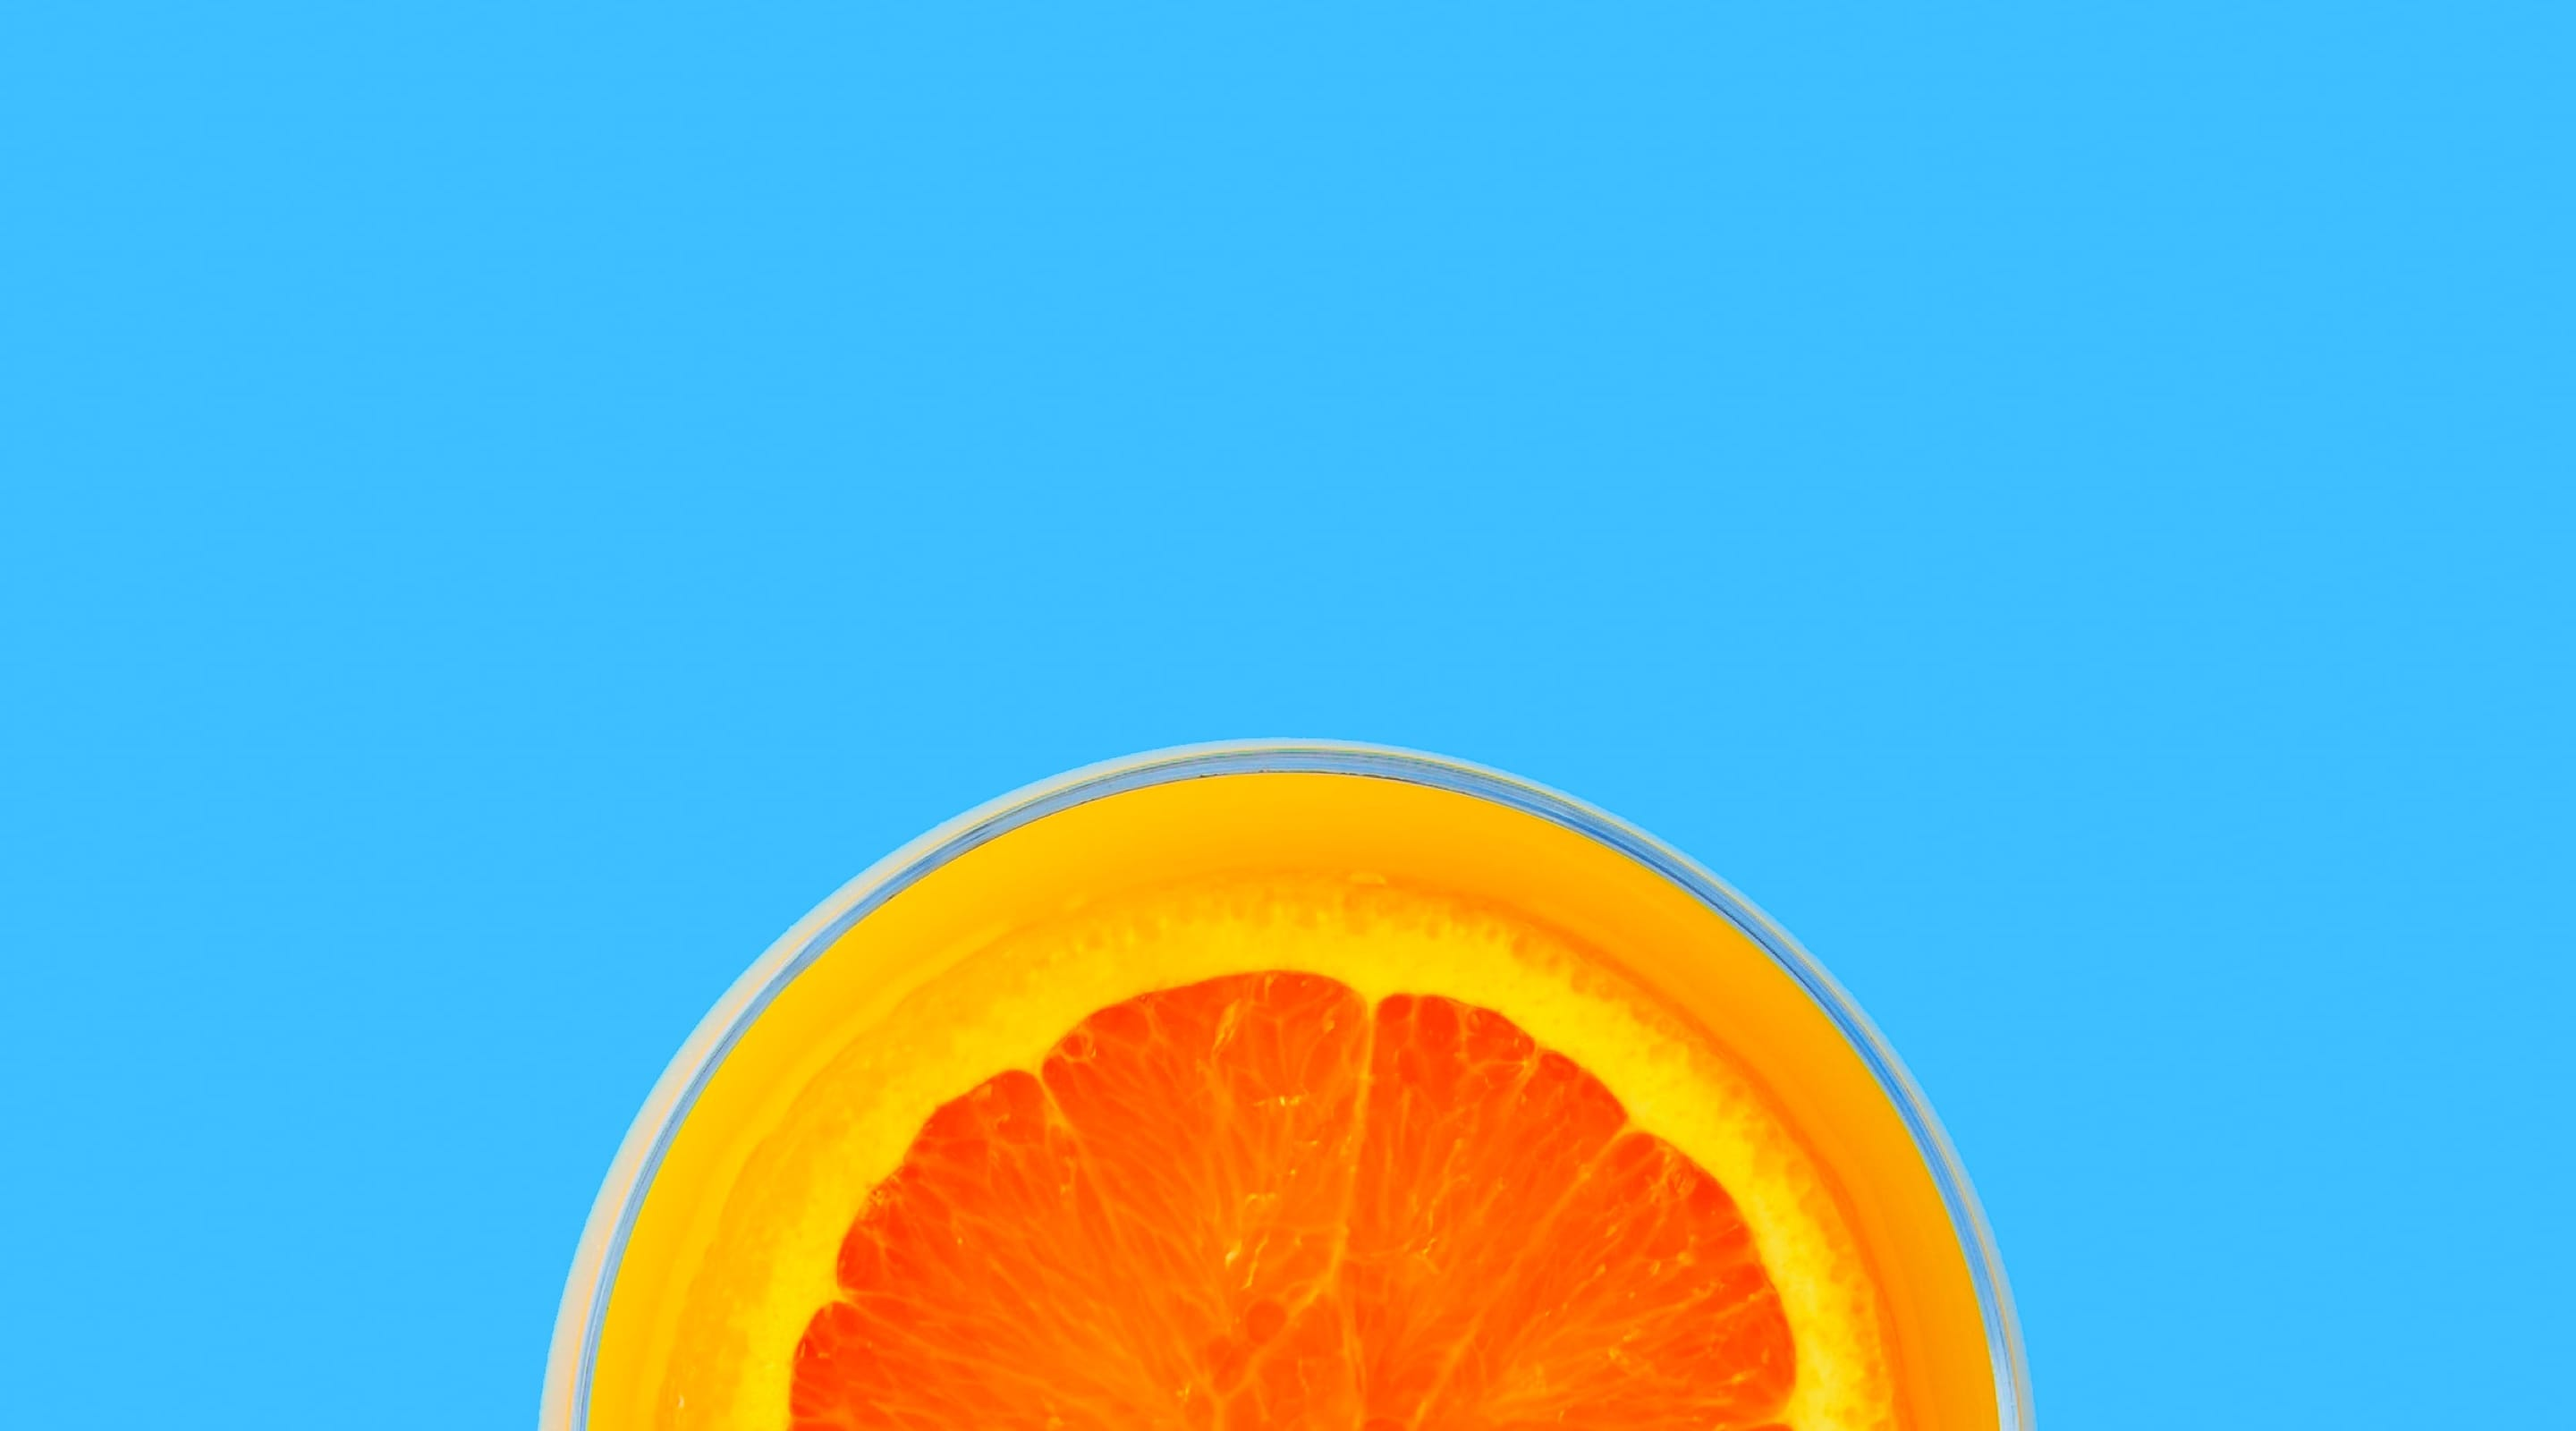
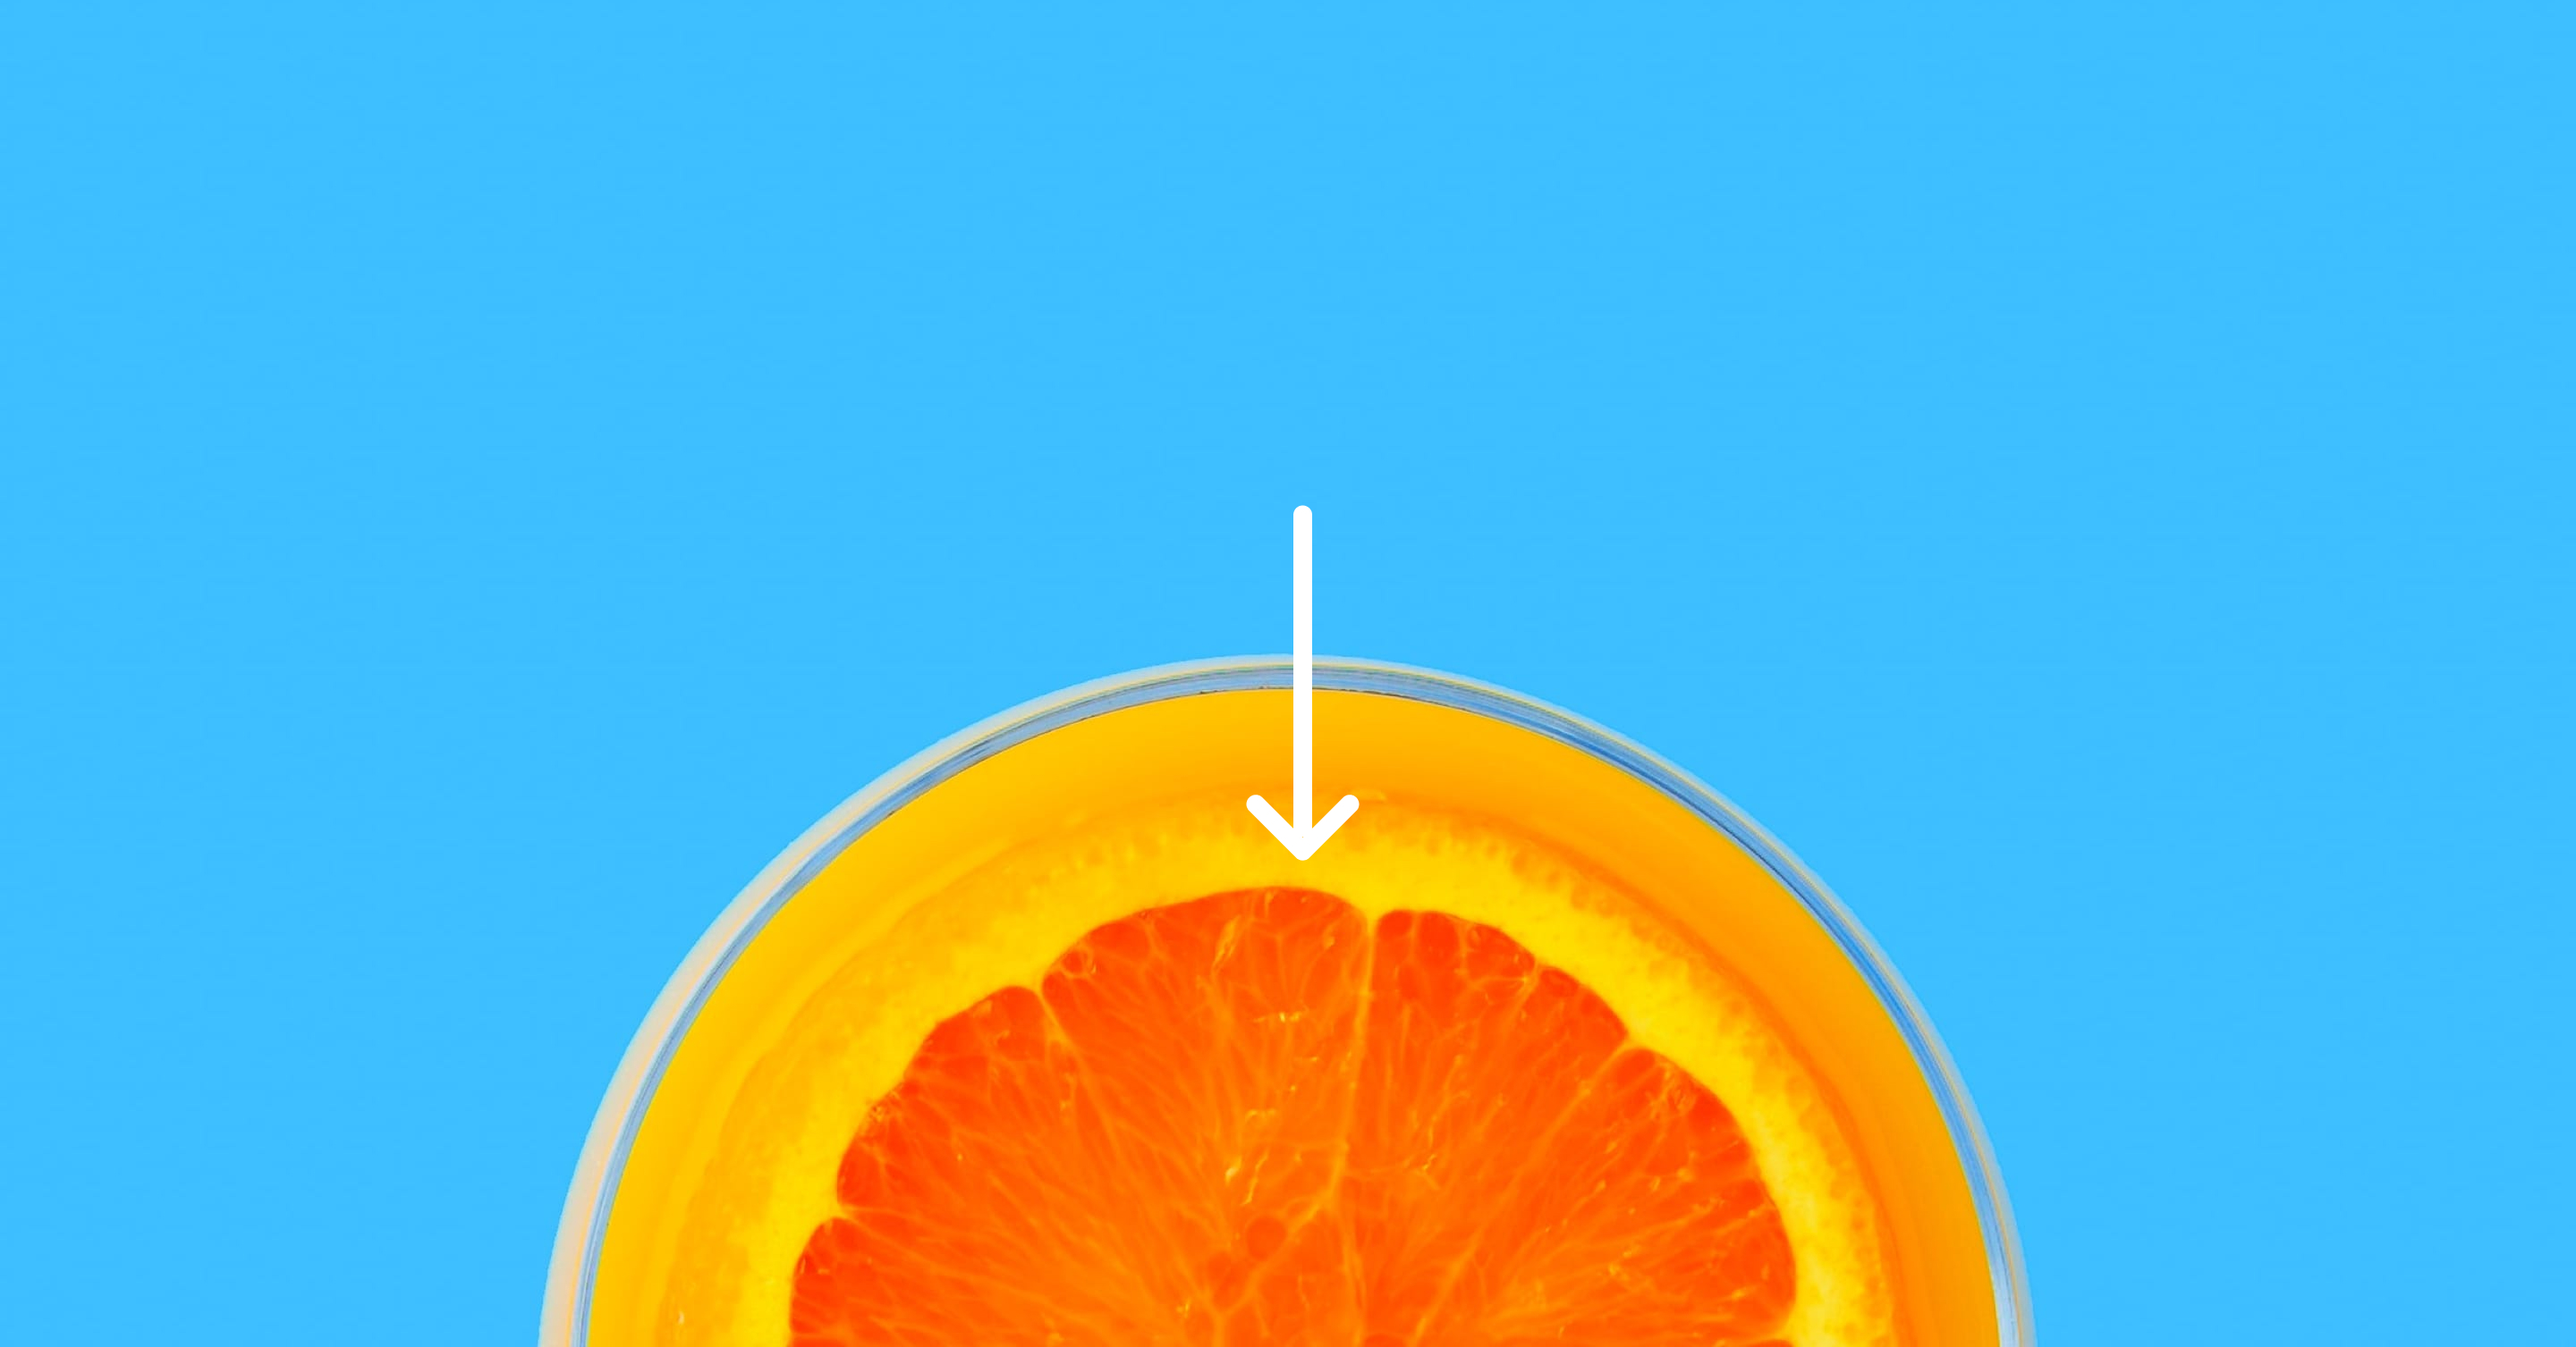
tablet css

Changed region(s): [[0.2188, 0.3743, 0.7812, 0.9356], [0.4688, 0.8733, 0.5, 0.9044]]

diff --git a/my-project/src/style-tablet.scss b/my-project/src/style-tablet.scss
@@ -1,6 +1,7 @@
 @import url('https://fonts.googleapis.com/css2?family=Fraunces:wght@400;900&family=Barlow&display=swap');
 
-@media (max-width: 480px) {
+@media ((min-width: 480px) and (max-width: 900px)) {
+
 
     html, body {
         box-sizing: border-box;
@@ -43,12 +44,13 @@
         }
 
         h1 {
-            margin-bottom: -2.4rem;
+            padding: 0 5rem;
         }
+
 
         // === HEADER === //
         header {
-            background-image: url('../frontend_mentor_resources/main sources/images/header-background-smallscreen-cropped.png');
+            background-image: url('../frontend_mentor_resources/main sources/images/desktop/image-header.jpg');
             background-position: top center;
             background-repeat: no-repeat;
             background-size: cover;
@@ -67,6 +69,7 @@
 
                 #logo {
                     height: 1.2rem;
+                    max-width: 100% !important;
                 }
     
                 // === TOP NAVLIST HIDDEN INITIALLY ON MOBILE AND TAB === //
@@ -122,9 +125,20 @@
                 letter-spacing: 5px;
             }
 
+            #arrow-down {
+                position: absolute;
+                width: 3rem;
+                left: 50%;
+                transform: translateX(-50%);
+                margin-top: 13rem; /* you can keep or move to top */
+              }
         }
 
-        // === SERVICES CONTAINER === // 
+        #second-hero-image {
+            min-width: 100% !important;
+        }
+
+        // === SERVICES CONTAINER === //
 
         #services-container {
             text-align: center;
@@ -133,15 +147,15 @@
                 font-family:'Fraunces';
                 font-weight: 700;
                 color: hsl(212, 27%, 19%);
-                font-size: 2rem;
                 padding: 2rem 2rem 0 2rem;
             }
 
             p {
                 color: hsl(232, 10%, 55%);
                 font-family: 'Barlow';
-                padding: 0 1.5rem;
+                padding: 0 2rem;
                 font-weight: 900;
+                font-size: 1.2rem;
             }
 
             .learn-more-button-container {
@@ -157,6 +171,7 @@
                     font-weight: 700;
                     font-family:'Fraunces';
                     cursor: pointer;
+                    font-size: 1.2rem;
 
 
                 }
@@ -183,10 +198,14 @@
 
             }
 
+            #stand-out-img {
+                min-width: 100% ;
+            }
+
             // === GRAPHIC DESIGN === //
 
             #graphic-design-container {
-                background-image: url('../frontend_mentor_resources/main sources/images/mobile/image-graphic-design.jpg');
+                background-image: url('../frontend_mentor_resources/main sources/images/desktop/image-graphic-design.jpg');
                 background-position: center;
                 background-repeat: no-repeat;
                 background-size: cover;
@@ -211,7 +230,7 @@
             // === PHOTOGRAPHY  === //
 
         #photography-container{
-            background-image: url('../frontend_mentor_resources/main sources/images/mobile/image-photography.jpg');
+            background-image: url('../frontend_mentor_resources/main sources/images/desktop/image-photography.jpg');
             background-position: center;
             background-repeat: no-repeat;
             background-size: cover;
@@ -243,7 +262,7 @@
         h3 {
             color: hsl(210, 4%, 67%);
             letter-spacing: 2px;
-            font-size: 1.5rem;
+            font-size: 1.8rem;
             margin: 3rem 0;
         }
 
@@ -255,32 +274,36 @@
 
             img {
                 border-radius: 50%;
-                width: 5rem;
+                width: 6.5rem;
                 margin-bottom: 1rem;
             }
 
             p {
                 color: hsl(213, 9%, 39%);
                 font-family: 'Barlow';
-                margin: 0 -1rem 0 -1rem;
+                margin: 0 -1rem -1rem -1rem;
                 font-weight: 600;
                 line-height: 1.6;
+                font-size: 1.1rem;
+                padding: 1rem;
             }
 
             .testimonial-name {
                 font-weight: 700;
                 font-family:'Fraunces';
                 color: hsl(212, 27%, 19%);
-                font-size: 1.2rem;
-                margin-bottom: -.2rem;
-                max-width: 100%;
+                font-size: 1.3rem;
+                margin-bottom: -1rem;
+                margin-right: 0;
             }
 
             .testimonial-profession {
                 color: hsl(210, 4%, 67%);
                 margin-bottom: 4rem;
-                font-size: .9rem;
+                font-size: 1rem;
                 max-width: 100%;
+                margin-right: 0;
+
 
             }
     }

diff --git a/my-project/index.html b/my-project/index.html
@@ -5,6 +5,7 @@
     <meta name="description" content="The most creative agency you can work with">
     <meta name="viewport" content="width=device-width, initial-scale=1.0" />
     <link rel="stylesheet" href="./src/style-mobile.scss" />
+    <link rel="stylesheet" href="./src/style-tablet.scss" />
     <title>Sunnyside Agency</title>
   </head>
 
@@ -26,12 +27,11 @@
             <li><a href="#">About</a></li>
             <li><a href="#">Services</a></li>
             <li><a href="#">Projects</a></li>
-            <button id="contact">Contact</button>
+            <button id="contact-desktop">Contact</button>
           </ul>
         </nav>
       </div>
       <h1>WE ARE CREATIVES</h1>
-      <img id="arrow-down" src="frontend_mentor_resources/main sources/images/icon-arrow-down.svg" alt="" />
     </header>
 
     <img id="second-hero-image"  src="frontend_mentor_resources/main sources/images/mobile/image-transform.jpg" alt="Transform illustration" />
@@ -49,7 +49,7 @@
         <div id="yellow-line-decor" ></div>
       </div>
 
-      <img src="frontend_mentor_resources/main sources/images/mobile/image-stand-out.jpg" alt="Stand out illustration" />
+      <img id="stand-out-img" src="frontend_mentor_resources/main sources/images/mobile/image-stand-out.jpg" alt="Stand out illustration" />
       <h2>Stand out to the right audience</h2>
       <p>
         Using a collaborative formula of designers, researchers, photographers, videographers, and copywriters, we’ll build and extend your brand in digital places.
@@ -116,10 +116,10 @@
 
     <!-- BOTTOM DECOR IMAGES-->
     <section id="bottom-decor-images-container" aria-label="Gallery">
-        <div class="decor-img" id="bottom-decor-img-one" ><img src="frontend_mentor_resources/main sources/images/mobile/image-gallery-milkbottles.jpg" alt="Gallery image of milk bottles" /></div>
-        <div class="decor-img" id="bottom-decor-img-two" ><img src="frontend_mentor_resources/main sources/images/mobile/image-gallery-orange.jpg" alt="Gallery image of orange" /></div>
-        <div class="decor-img" id="bottom-decor-img-three" ><img src="frontend_mentor_resources/main sources/images/mobile/image-gallery-cone.jpg" alt="Gallery image of cone" /></div>
-        <div class="decor-img" id="bottom-decor-img-four" ><img src="frontend_mentor_resources/main sources/images/mobile/image-gallery-sugar-cubes.jpg" alt="Gallery image of sugar cubes" /></div>
+        <div class="decor-img" id="bottom-decor-img-one" ><img src="frontend_mentor_resources/main sources/images/desktop/image-gallery-milkbottles.jpg" alt="Gallery image of milk bottles" /></div>
+        <div class="decor-img" id="bottom-decor-img-two" ><img src="frontend_mentor_resources/main sources/images/desktop/image-gallery-orange.jpg" alt="Gallery image of orange" /></div>
+        <div class="decor-img" id="bottom-decor-img-three" ><img src="frontend_mentor_resources/main sources/images/desktop/image-gallery-cone.jpg" alt="Gallery image of cone" /></div>
+        <div class="decor-img" id="bottom-decor-img-four" ><img src="frontend_mentor_resources/main sources/images/desktop/image-gallery-sugarcubes.jpg" alt="Gallery image of sugar cubes" /></div>
 
     </section>
 
@@ -131,9 +131,9 @@
           <li>About</li>
           <li>Services</li>
           <li>Projects</li>
+          <button id="contact-small-screen">Contact</button>
         </ul>
       </nav>
-      <img  id="logo-in-mobile-navbar" src="frontend_mentor_resources/main sources/images/logo.svg" alt="Sunnyside Agency logo" />
       </div> 
 
     <!-- FOOTER -->
